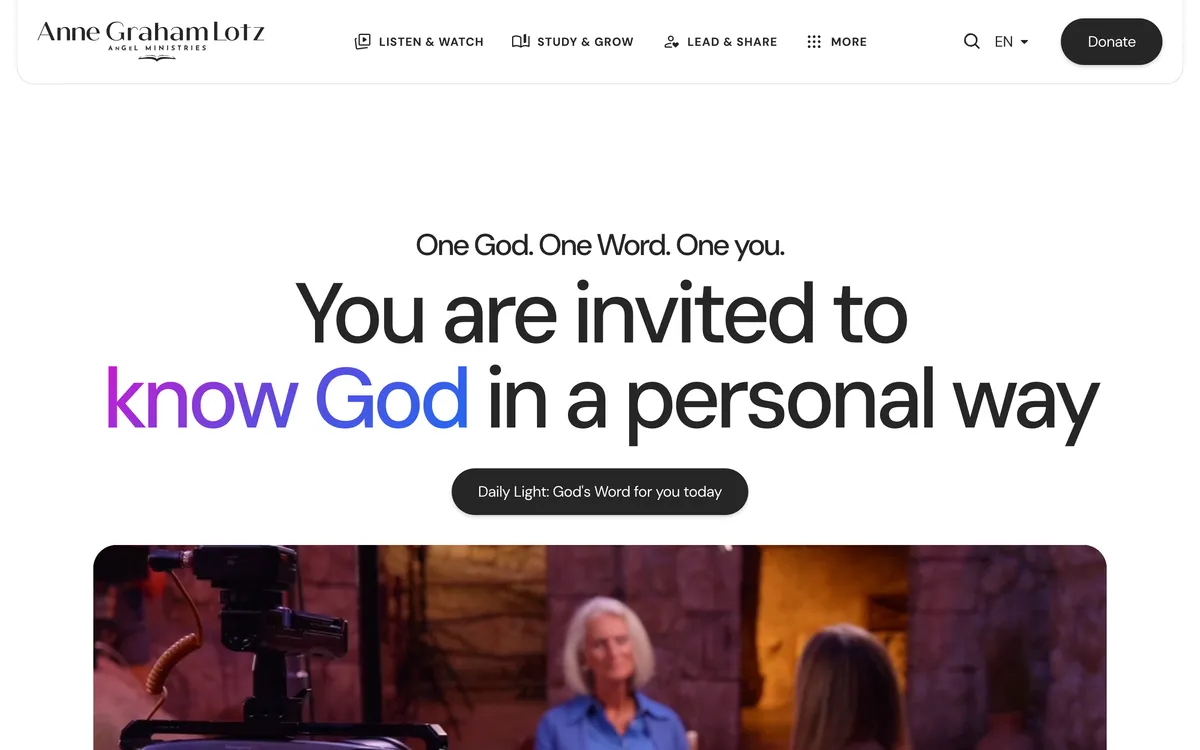
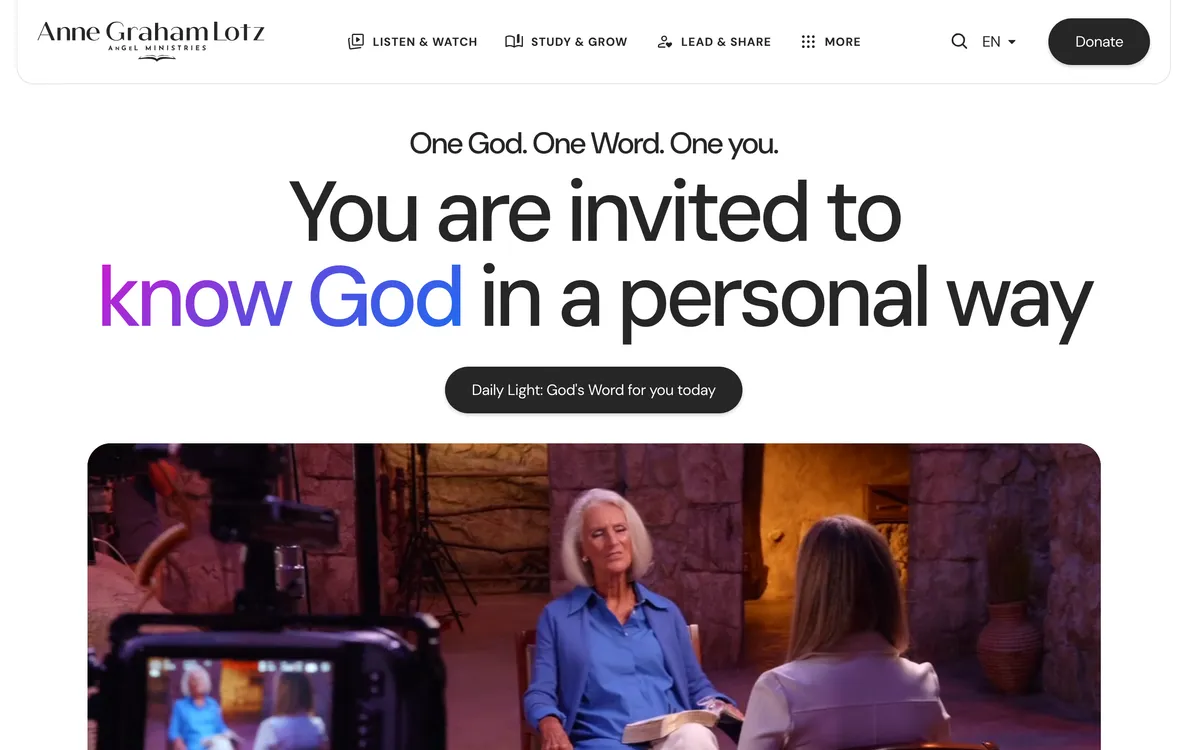
Crossfade into case studies, rename the stack label, rewrite Esses and tighten the AGL shot

diff --git a/src/lib/case.ts b/src/lib/case.ts
@@ -11,7 +11,7 @@ export function caseHTML(projects: Project[], i: number) {
     <div class="ttl"><div><div class="eyebrow mono k st" style="--i:1">${p.team}</div><h2 class="disp st" style="--i:2">${p.title}</h2></div><span class="vs st" style="--i:3"><a class="btn ghost" href="${p.url}" target="_blank" rel="noopener">Visit site<span class="sr"> (opens in a new tab)</span></a></span></div><p class="lead st" style="--i:4">${p.fact}</p></div>
     <div class="shotw"><div class="hero-shot cr"><img src="${p.shot}" alt="${p.title} website"><div class="hud"></div></div><div class="splanet" aria-hidden="true"><img src="${p.planet}" alt="">${moonsHTML(i)}</div></div>
     ${p.story ? `<div class="story">${STORY(p.story).map(([h, t]) => `<div class="cr"><h4>${h}</h4><p>${t}</p></div>`).join('')}</div>` : ''}
-    <div class="cols"><div class="cr"><h4>Systems</h4><div class="stack">${p.stack.map((x) => `<span>${x}</span>`).join('')}</div></div></div>
+    <div class="cols"><div class="cr"><h4>Stack</h4><div class="stack">${p.stack.map((x) => `<span>${x}</span>`).join('')}</div></div></div>
     <div class="nav2 cr"><button type="button" data-go="${pi}" aria-label="Previous project, ${projects[pi].title}"><b>${ic('arrow-left')}Previous</b><span>${nn(pi + 1)} · ${projects[pi].title}</span></button><button type="button" data-go="${ni}" aria-label="Next project, ${projects[ni].title}"><b>Next${ic('arrow-right')}</b><span>${nn(ni + 1)} · ${projects[ni].title}</span></button></div>`;
 }
 

diff --git a/src/styles/state.css b/src/styles/state.css
@@ -11,7 +11,7 @@ html.landing #hero { opacity: 0; animation: hiFail .4s 8s forwards; }
 #jump .d { margin-top: 12px; font: 700 clamp(18px, 2.4vw, 34px)/1 "Syncopate", sans-serif; text-transform: uppercase; letter-spacing: .06em; }
 #jump .bar { width: 180px; height: 2px; margin: 16px auto 0; background: rgb(207 234 255 / 25%); overflow: hidden; }
 #jump .bar i { display: block; height: 100%; background: #fff; transform-origin: 0 50%; box-shadow: 0 0 10px #fff; }
-body.fly-out nav, body.fly-out #hero, body.fly-out main, body.fly-out footer { opacity: 0; transition: opacity .22s var(--ease-io); }
+body.fly-out nav, body.fly-out #hero, body.fly-out main, body.fly-out footer { opacity: 0; transition: opacity .3s var(--ease-io); }
 body.fly-back nav, body.fly-back #hero, body.fly-back main, body.fly-back footer { transition: opacity .3s var(--ease-io); }
 body.fade-back nav, body.fade-back main, body.fade-back footer { will-change: opacity; }
 .skip-link { position: fixed; z-index: 120; left: 16px; top: 12px; padding: 12px 16px; border-radius: 10px; background: var(--fg); color: var(--bg); font: 600 13px/1 "Inter Tight", sans-serif; text-decoration: none; opacity: 0; transform: translate3d(0, -220%, 0); transition: transform .3s var(--ease-out), opacity .2s ease; }

diff --git a/src/styles/case.css b/src/styles/case.css
@@ -46,3 +46,4 @@ body.case-open:not(.fly-out) nav, body.case-open:not(.fly-out) #hero, body.case-
 #case .splanet { display: none; position: absolute; z-index: 0; right: -6vw; top: -46px; width: 28vw; pointer-events: none; opacity: 0; transition: opacity .8s ease .2s; animation: cfloat 9s ease-in-out infinite alternate; }
 #case .hero-shot.shown + .splanet { opacity: 1; }
 @media (max-width: 600px) { #case .cplanet { display: none; } #case .splanet { display: block; } #case .shotw .hero-shot { margin-top: 52px; } #case .kh { display: none; } }
+#case .chd .st { transition-duration: .5s, .65s; transition-delay: calc(var(--i, 0) * 50ms); }
